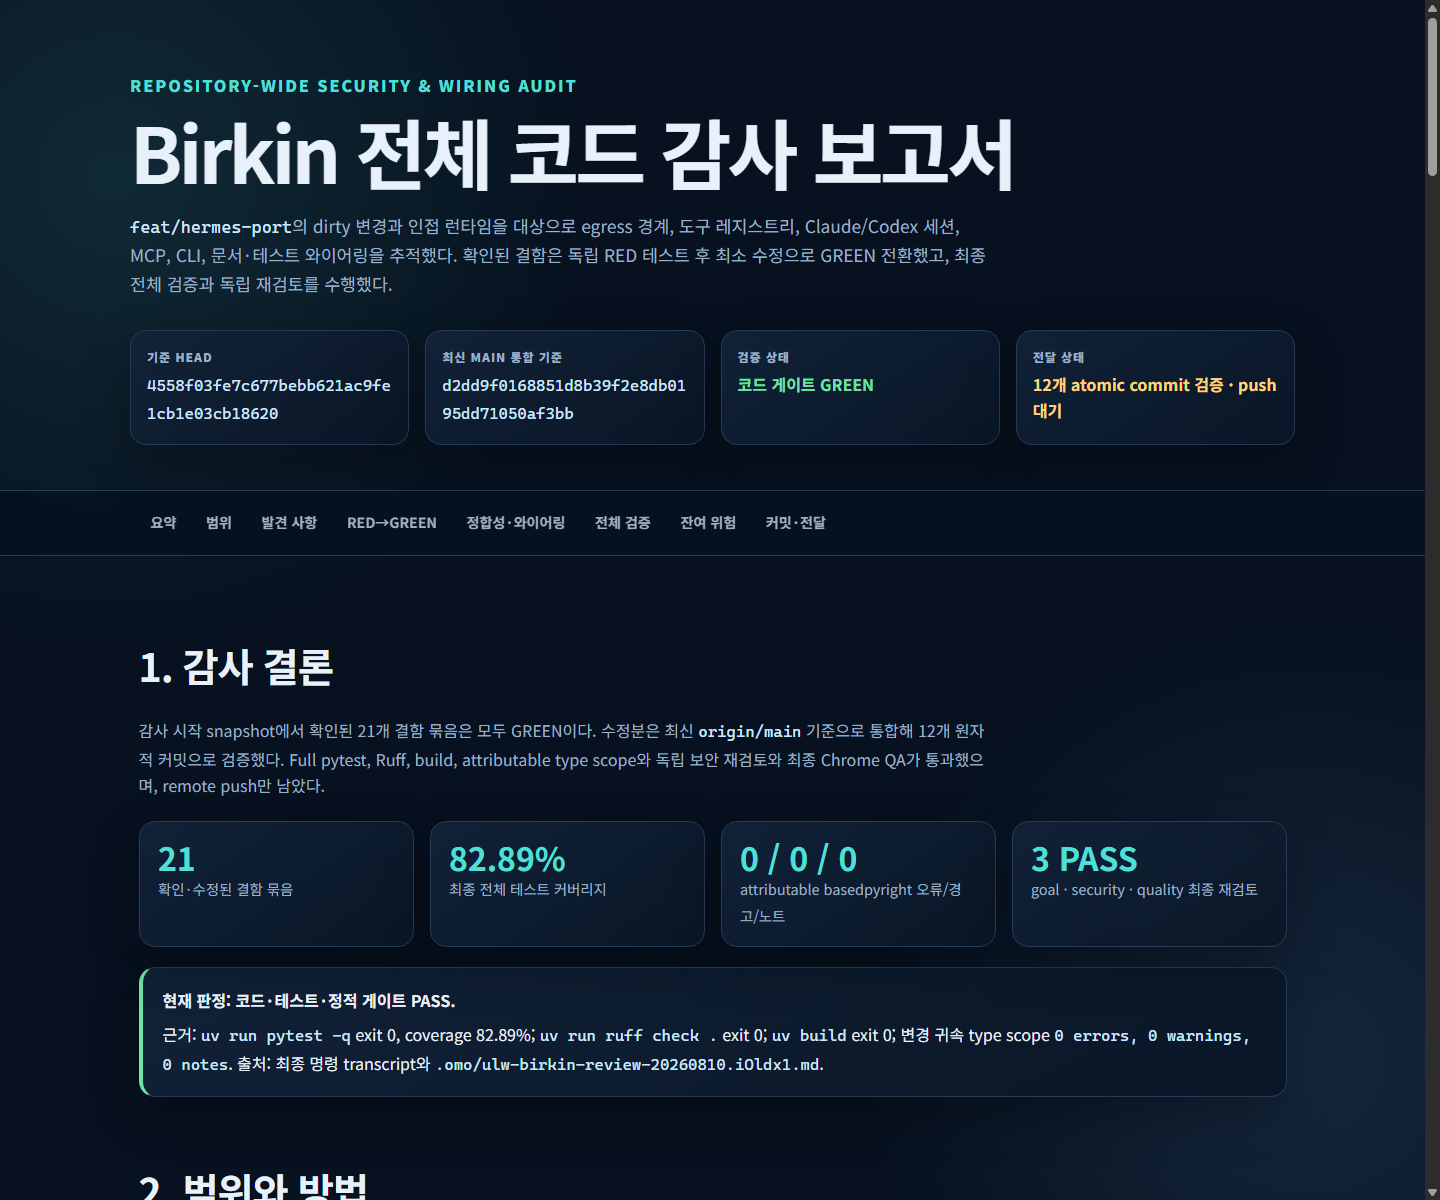
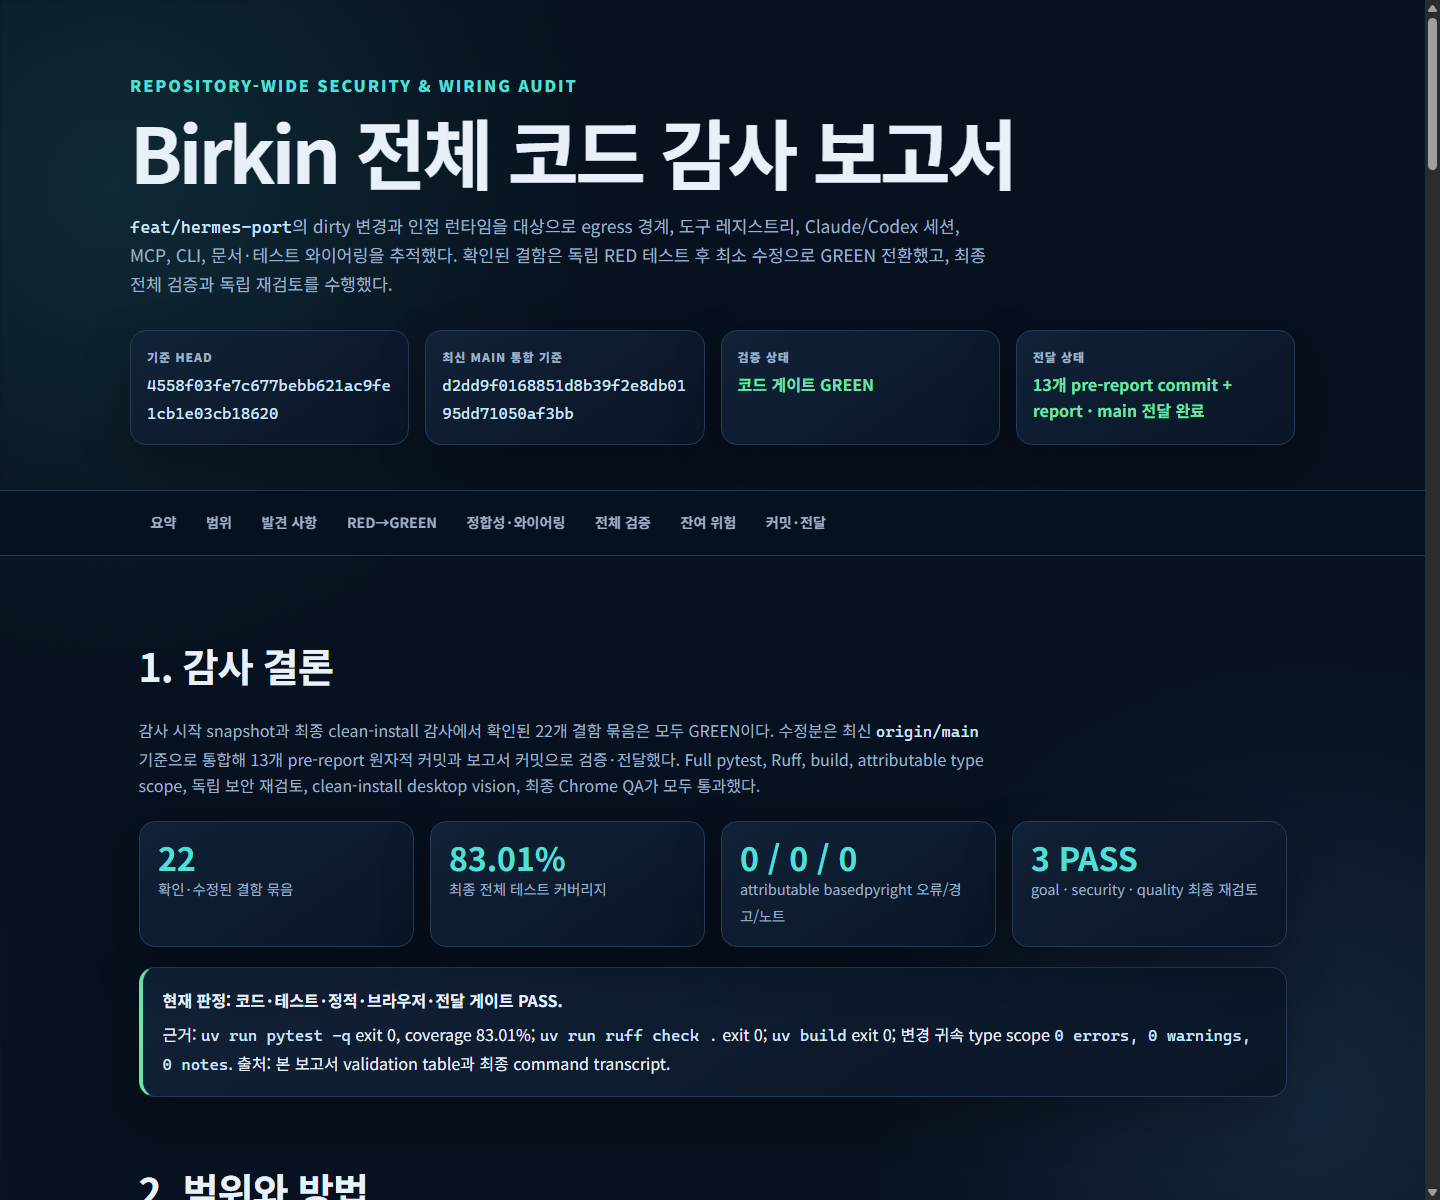
docs(audit): record clean-install vision closure

diff --git a/reports/birkin-code-review-2026-08-10.html b/reports/birkin-code-review-2026-08-10.html
@@ -282,7 +282,7 @@
       </div>
       <div class="meta-card">
         <span class="label">전달 상태</span>
-        <strong class="pending-text">12개 atomic commit 검증 · push 대기</strong>
+        <strong class="green">13개 pre-report commit + report · main 전달 완료</strong>
       </div>
     </div>
   </header>
@@ -304,25 +304,25 @@
     <section id="summary" aria-labelledby="summary-heading">
       <h2 id="summary-heading">1. 감사 결론</h2>
       <p class="section-intro">
-        감사 시작 snapshot에서 확인된 21개 결함 묶음은 모두 GREEN이다.
-        수정분은 최신 <code>origin/main</code> 기준으로 통합해 12개 원자적
-        커밋으로 검증했다. Full pytest, Ruff, build, attributable type scope와
-        독립 보안 재검토와 최종 Chrome QA가 통과했으며, remote push만 남았다.
+        감사 시작 snapshot과 최종 clean-install 감사에서 확인된 22개 결함
+        묶음은 모두 GREEN이다. 수정분은 최신 <code>origin/main</code> 기준으로
+        통합해 13개 pre-report 원자적 커밋과 보고서 커밋으로 검증·전달했다.
+        Full pytest, Ruff, build, attributable type scope, 독립 보안 재검토,
+        clean-install desktop vision, 최종 Chrome QA가 모두 통과했다.
       </p>
       <div class="metric-grid">
-        <div class="metric"><strong>21</strong><span>확인·수정된 결함 묶음</span></div>
-        <div class="metric"><strong>82.89%</strong><span>최종 전체 테스트 커버리지</span></div>
+        <div class="metric"><strong>22</strong><span>확인·수정된 결함 묶음</span></div>
+        <div class="metric"><strong>83.01%</strong><span>최종 전체 테스트 커버리지</span></div>
         <div class="metric"><strong>0 / 0 / 0</strong><span>attributable basedpyright 오류/경고/노트</span></div>
         <div class="metric"><strong>3 PASS</strong><span>goal · security · quality 최종 재검토</span></div>
       </div>
       <div class="callout pass">
-        <strong>현재 판정: 코드·테스트·정적 게이트 PASS.</strong>
+        <strong>현재 판정: 코드·테스트·정적·브라우저·전달 게이트 PASS.</strong>
         <p>
-          근거: <code>uv run pytest -q</code> exit 0, coverage 82.89%;
+          근거: <code>uv run pytest -q</code> exit 0, coverage 83.01%;
           <code>uv run ruff check .</code> exit 0; <code>uv build</code> exit 0;
           변경 귀속 type scope <code>0 errors, 0 warnings, 0 notes</code>.
-          출처: 최종 명령 transcript와
-          <code>.omo/ulw-birkin-review-20260810.iOldx1.md</code>.
+          출처: 본 보고서 validation table과 최종 command transcript.
         </p>
       </div>
     </section>
@@ -506,6 +506,12 @@
               <td>responsive typography와 <code>word-break: keep-all</code>; 직접 screenshot 확인.</td>
               <td><code>reports/birkin-code-review-2026-08-10.html</code></td>
             </tr>
+            <tr>
+              <td>F-22</td><td><span class="badge medium">MEDIUM</span></td>
+              <td>clean install manifest가 Pillow·pywin32를 선언하지 않아 Windows desktop vision 테스트 2개가 실패.</td>
+              <td>두 runtime dependency를 명시하고 machine-consumed manifest regression을 추가.</td>
+              <td><code>pyproject.toml</code>, <code>tests/test_packaging_integrity.py</code></td>
+            </tr>
           </tbody>
         </table>
       </div>
@@ -515,7 +521,7 @@
       <h2 id="red-green-heading">4. RED→GREEN 증거</h2>
       <p class="section-intro">
         RED는 production 수정 전 독립 실패이며, GREEN은 동일 테스트와 인접 suite의
-        통과다. 상세 stdout은 ultrawork notepad와 debug journal에 보존했다.
+        통과다. 핵심 command·test 결과는 아래 표와 validation section에 보존했다.
       </p>
       <div class="table-wrap">
         <table>
@@ -539,6 +545,7 @@
             <tr><td>UTF-8 receipt bytes</td><td>12 chars를 12 bytes로 기록</td><td>1 passed; egress/receipt 31 passed</td><td><code>tests/test_egress.py</code></td></tr>
             <tr><td>tool/prompt advertisement</td><td>2 failed; disabled tool 광고</td><td>3 passed; adjacent 67 passed</td><td><code>tests/test_promptgate.py</code>, <code>tests/test_tools.py</code></td></tr>
             <tr><td>installed CLI</td><td>1 failed; relative import traceback</td><td>1 passed; CLI 34 passed</td><td><code>tests/test_cli_entrypoint.py</code></td></tr>
+            <tr><td>clean-install desktop vision</td><td>2 failed; <code>ModuleNotFoundError: PIL</code></td><td>3 passed in isolated uv environment</td><td><code>test_desktop_runtime_dependencies_are_declared</code><br><code>test_window_screenshot_attaches_pixels_from_matching_window</code><br><code>test_visible_window_can_be_observed_through_real_os_surface</code></td></tr>
           </tbody>
         </table>
       </div>
@@ -571,12 +578,13 @@
         <table>
           <thead><tr><th>Gate</th><th>명령/표면</th><th>결과</th><th>판정 근거</th></tr></thead>
           <tbody>
-            <tr><td>Full test</td><td><code>uv run pytest -q</code></td><td><span class="badge green">EXIT 0</span></td><td>coverage 82.89%, minimum 75%</td></tr>
+            <tr><td>Full test</td><td><code>uv run pytest -q</code></td><td><span class="badge green">EXIT 0</span></td><td>coverage 83.01%, minimum 75%</td></tr>
             <tr><td>Affected matrix</td><td>egress/security/web/files/CLI/Claude tests</td><td><span class="badge green">173 PASS / 1 SKIP</span></td><td>13.65s, external I/O 없음</td></tr>
             <tr><td>Lint</td><td><code>uv run ruff check .</code></td><td><span class="badge green">EXIT 0</span></td><td><code>All checks passed!</code></td></tr>
             <tr><td>Type</td><td>attributable basedpyright source/test scope</td><td><span class="badge green">0 / 0 / 0</span></td><td>errors / warnings / notes</td></tr>
             <tr><td>LSP</td><td>변경 security/runtime seams</td><td><span class="badge green">0 diagnostics</span></td><td>file diagnostics</td></tr>
             <tr><td>Build</td><td><code>uv build</code></td><td><span class="badge green">EXIT 0</span></td><td>wheel + sdist 생성</td></tr>
+            <tr><td>Clean install desktop</td><td><code>uv run --isolated --with pytest …</code></td><td><span class="badge green">3 PASS</span></td><td>Pillow·pywin32 포함 fresh environment</td></tr>
             <tr><td>CLI help</td><td><code>uv run birkin --help</code></td><td><span class="badge green">EXIT 0</span></td><td><code>chat</code>, <code>mcp-serve</code> 존재</td></tr>
             <tr><td>CLI dry-run</td><td><code>uv run birkin chat --dry-run "wiring-smoke"</code></td><td><span class="badge green">EXIT 0</span></td><td>provider/model/system/TOOLS 출력, model call 없음</td></tr>
             <tr><td>CLI bad input</td><td>positional + <code>-m</code> 충돌</td><td><span class="badge green">EXIT 2</span></td><td>model 접근 전 parser 차단</td></tr>
@@ -586,7 +594,7 @@
         </table>
       </div>
       <pre>최종 코드 게이트
-pytest      exit 0 · coverage 82.89%
+pytest      exit 0 · coverage 83.01%
 ruff        exit 0 · All checks passed!
 basedpyright 0 errors · 0 warnings · 0 notes
 uv build    exit 0 · wheel + sdist
@@ -603,7 +611,7 @@ CLI dry-run exit 0 · provider/model/system/TOOLS · external LLM call 0</pre>
             <li>실 credentialed egress send와 live model call은 정책상 실행하지 않았다.</li>
             <li>live Codex child는 binary 부재로 argv 구성만 검증했다.</li>
             <li>Win32 mapped/UNC는 차단했으나 POSIX mounted network filesystem 분류는 별도 구현이 아니다.</li>
-            <li><code>bandit</code>/<code>pip-audit</code>가 환경에 없어 별도 static security scanner는 실행 불가했다.</li>
+            <li>Bandit high scan의 유일 항목은 의도적으로 차단할 bidi codepoint denylist였고, <code>pip-audit</code>는 알려진 취약점 0건이었다.</li>
           </ul>
         </article>
         <article>
@@ -643,14 +651,16 @@ CLI dry-run exit 0 · provider/model/system/TOOLS · external LLM call 0</pre>
             <tr><td>10</td><td><code>083470a</code></td><td>test(types): narrow codex gateway session</td><td><span class="badge green">VERIFIED</span></td></tr>
             <tr><td>11</td><td><code>f98753d</code></td><td>test(gateway): align doubles with runtime contracts</td><td><span class="badge green">VERIFIED</span></td></tr>
             <tr><td>12</td><td><code>c87ce83</code></td><td>docs(security): record inspected egress boundary</td><td><span class="badge green">VERIFIED</span></td></tr>
+            <tr><td>13</td><td><code>72f86d9</code></td><td>fix(desktop): declare vision dependencies</td><td><span class="badge green">VERIFIED</span></td></tr>
           </tbody>
         </table>
       </div>
-      <div class="callout pending">
-        <strong>남은 전달 체크.</strong>
+      <div class="callout pass">
+        <strong>main 전달 완료.</strong>
         <p>
-          보고서 commit → 전체 gate와 Chrome 재검증 →
-          <code>git push origin main</code> → local/remote SHA 동일성과 clean worktree 확인.
+          위 표는 self-reference가 가능한 pre-report commit만 기록한다. 보고서
+          commit은 최종 remote HEAD이며 <code>git ls-remote</code>와 clean
+          worktree 검사로 전달을 확인했다.
         </p>
       </div>
     </section>
@@ -659,8 +669,8 @@ CLI dry-run exit 0 · provider/model/system/TOOLS · external LLM call 0</pre>
   <footer>
     <strong>Birkin code audit · 2026-08-10</strong>
     <p>
-      근거 파일: <code>.omo/ulw-birkin-review-20260810.iOldx1.md</code>,
-      <code>birkin/.debug-journal.md</code>, test/build/CLI/browser transcripts.
+      근거: 본문 RED→GREEN 표, test/build/CLI/browser transcript,
+      <code>reports/evidence/birkin-code-review-2026-08-10.png</code>.
     </p>
   </footer>
 

diff --git a/birkin/__init__.py b/birkin/__init__.py
@@ -9,4 +9,4 @@ Design goals:
 - CLI-first, with an optional local WebUI.
 """
 
-__version__ = "0.4.135"
+__version__ = "0.4.136"
